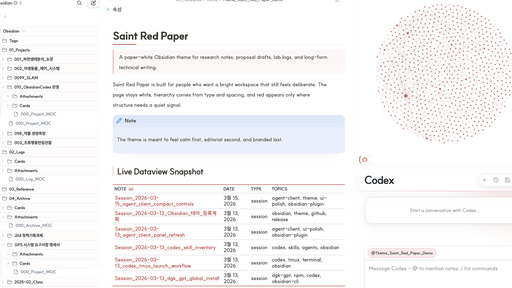
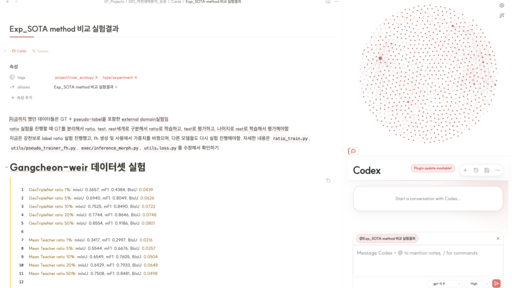
Use actual note captures for preview assets

diff --git a/README.md b/README.md
@@ -10,7 +10,7 @@ Saint Red Paper is a light-first Obsidian theme for research notes, lab logs, an
 | --- | --- | --- |
 | ![Workspace preview](assets/saint-red-paper-workspace.png) | ![Reading preview](assets/saint-red-paper-reading.png) | ![Dark preview](assets/saint-red-paper-dark.png) |
 
-The preview assets above are real captures from live demo notes inside Obsidian. The technical workspace image is intentionally sidebar-free so the reader's eye stays on the report surface, figures, and tables instead of the app chrome. The dark mode preview uses the same theme language with a deeper paper-black surface and muted red emphasis.
+The preview assets above are real captures from live Obsidian notes and panels. The technical workspace image is a sidebar-free crop from an actual experiment note so the reader's eye stays on the report surface, technical text, and result tables instead of the app chrome. The dark mode preview uses the same note structure with a deeper paper-black surface and muted red emphasis.
 
 ## Community Theme Metadata
 

diff --git a/CHANGELOG.md b/CHANGELOG.md
@@ -2,6 +2,11 @@
 
 ## Unreleased
 
+## 0.2.3 - 2026-03-15
+
+- Replaced the report-style preview assets with actual captures from a real experiment note so the README visuals lean on existing Obsidian content instead of staged mockup-like surfaces.
+- Refreshed the dark preview with the same real note structure and kept the community submission screenshot as a smaller actual UI capture.
+
 ## 0.2.2 - 2026-03-15
 
 - Added a true light-first but dark-capable pass so Saint Red Paper no longer relies on token-only dark compatibility.
